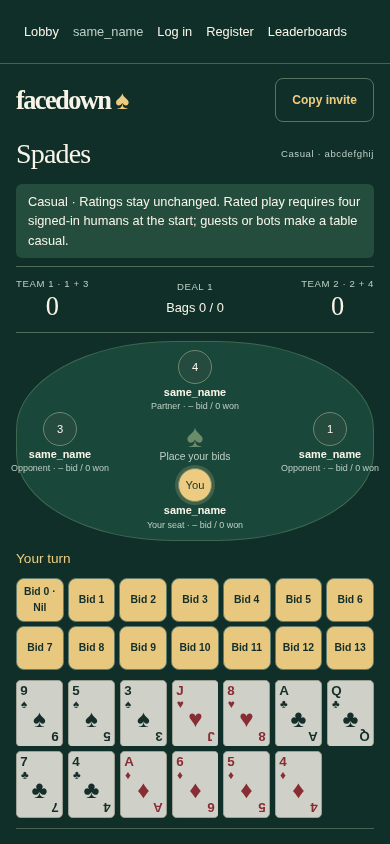
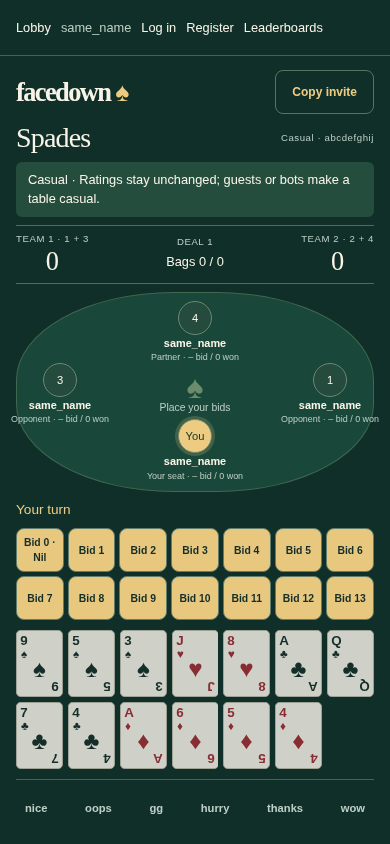
fix: reserve phone layout space for font wrapping (#20)

diff --git a/test/browser/client-fixes.spec.ts b/test/browser/client-fixes.spec.ts
@@ -24,25 +24,31 @@ if (process.env.FACEDOWN_BROWSER === "1") {
     await expect(page.locator(".bids button")).toHaveCount(14);
   });
 
-  test("phone bidding fits every card and bid in the viewport", async ({
-    page,
-    origin,
-  }, info) => {
-    const wire = await tableFixture(page);
-    await page.goto(`${origin}/tables/${wire.id}`);
-    await expect(
-      page.getByText("Waiting to start", { exact: true }),
-    ).toBeVisible();
-    wire.send(0, { you: wire.record.moves[0]?.seat });
-    await expect(page.locator(".piece")).toHaveCount(13);
-    await expect(page.locator(".bids button")).toHaveCount(14);
-    for (const item of await page.locator(".piece, .bids button").all())
-      await expect(item).toBeInViewport({ ratio: 1 });
-    await page.screenshot({
-      path: `docs/screenshots/bidding-${info.project.name}-phone.png`,
-      animations: "disabled",
+  for (const largerType of [false, true])
+    test(`phone bidding fits every card and bid in the viewport${largerType ? " with larger type" : ""}`, async ({
+      page,
+      origin,
+    }, info) => {
+      const wire = await tableFixture(page);
+      await page.goto(`${origin}/tables/${wire.id}`);
+      await expect(
+        page.getByText("Waiting to start", { exact: true }),
+      ).toBeVisible();
+      if (largerType)
+        await page.addStyleTag({
+          content: ":root { font-size: 18px; }",
+        });
+      wire.send(0, { you: wire.record.moves[0]?.seat });
+      await expect(page.locator(".piece")).toHaveCount(13);
+      await expect(page.locator(".bids button")).toHaveCount(14);
+      for (const item of await page.locator(".piece, .bids button").all())
+        await expect(item).toBeInViewport({ ratio: 1 });
+      if (!largerType)
+        await page.screenshot({
+          path: `docs/screenshots/bidding-${info.project.name}-phone.png`,
+          animations: "disabled",
+        });
     });
-  });
 
   test("keyboard play retains focus in the hand", async ({ page, origin }) => {
     await page.setViewportSize({ width: 1100, height: 900 });

diff --git a/client/src/Table.svelte b/client/src/Table.svelte
@@ -162,7 +162,7 @@ onMount(() => {
   {#if chain?.tampered}<p role="alert">This game's move log changed unexpectedly</p>{/if}
   {#if message}
     {#if view}
-    {#if !message.rated}<p class="banner">Casual · Ratings stay unchanged. Rated play requires four signed-in humans at the start; guests or bots make a table casual.</p>{/if}
+    {#if !message.rated}<p class="banner">Casual · Ratings stay unchanged; guests or bots make a table casual.</p>{/if}
     <Scorebar {view} />
     {/if}
     <Board {message} {seat} {bubbles} />

diff --git a/client/src/controls.css b/client/src/controls.css
@@ -141,6 +141,15 @@
 }
 
 @media (max-width: 599px) {
+  .game .brand {
+    margin-bottom: 8px;
+  }
+  .game-heading {
+    margin-bottom: 8px;
+  }
+  .game .scorebar {
+    padding: 6px 0;
+  }
   .hand:not(.dominoes) {
     display: grid;
     grid-template-columns: repeat(7, minmax(0, 1fr));

diff --git a/client/src/account.css b/client/src/account.css
@@ -135,3 +135,10 @@ td {
 .replay-hands h2 {
   overflow-wrap: anywhere;
 }
+
+@media (max-width: 599px) {
+  body:has(.game) .account-nav {
+    padding: 8px 16px;
+    gap: 10px;
+  }
+}
